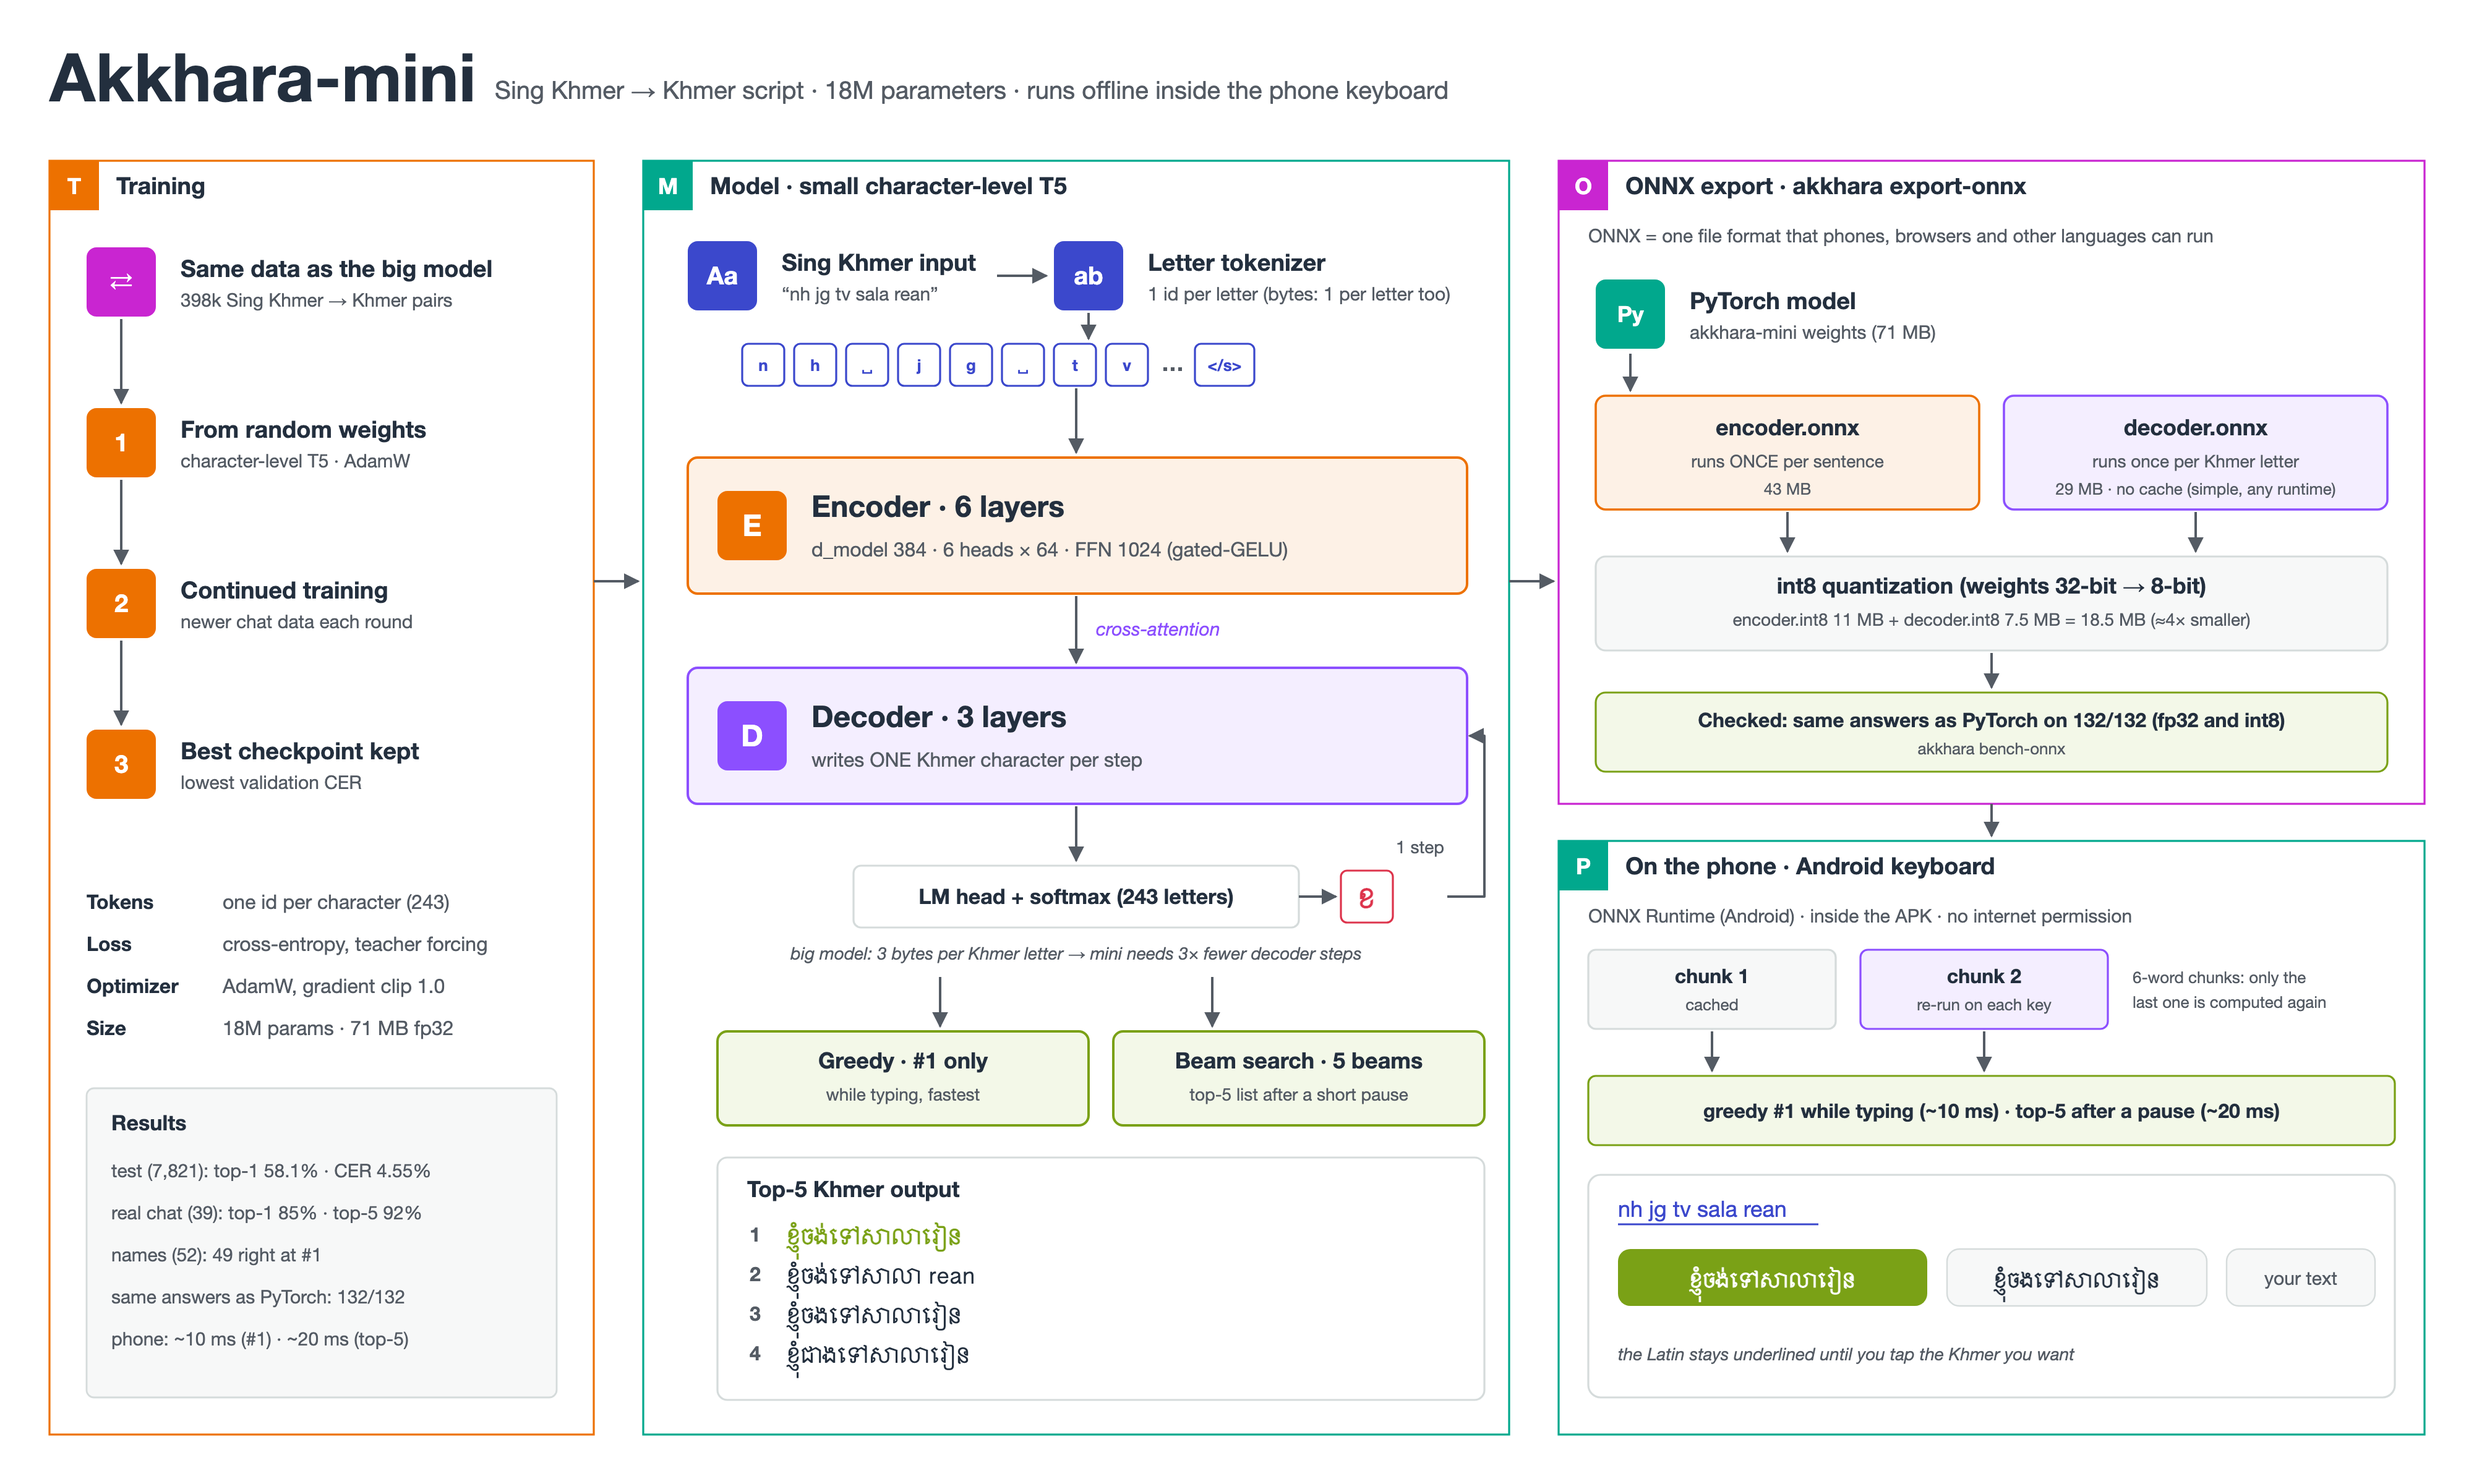
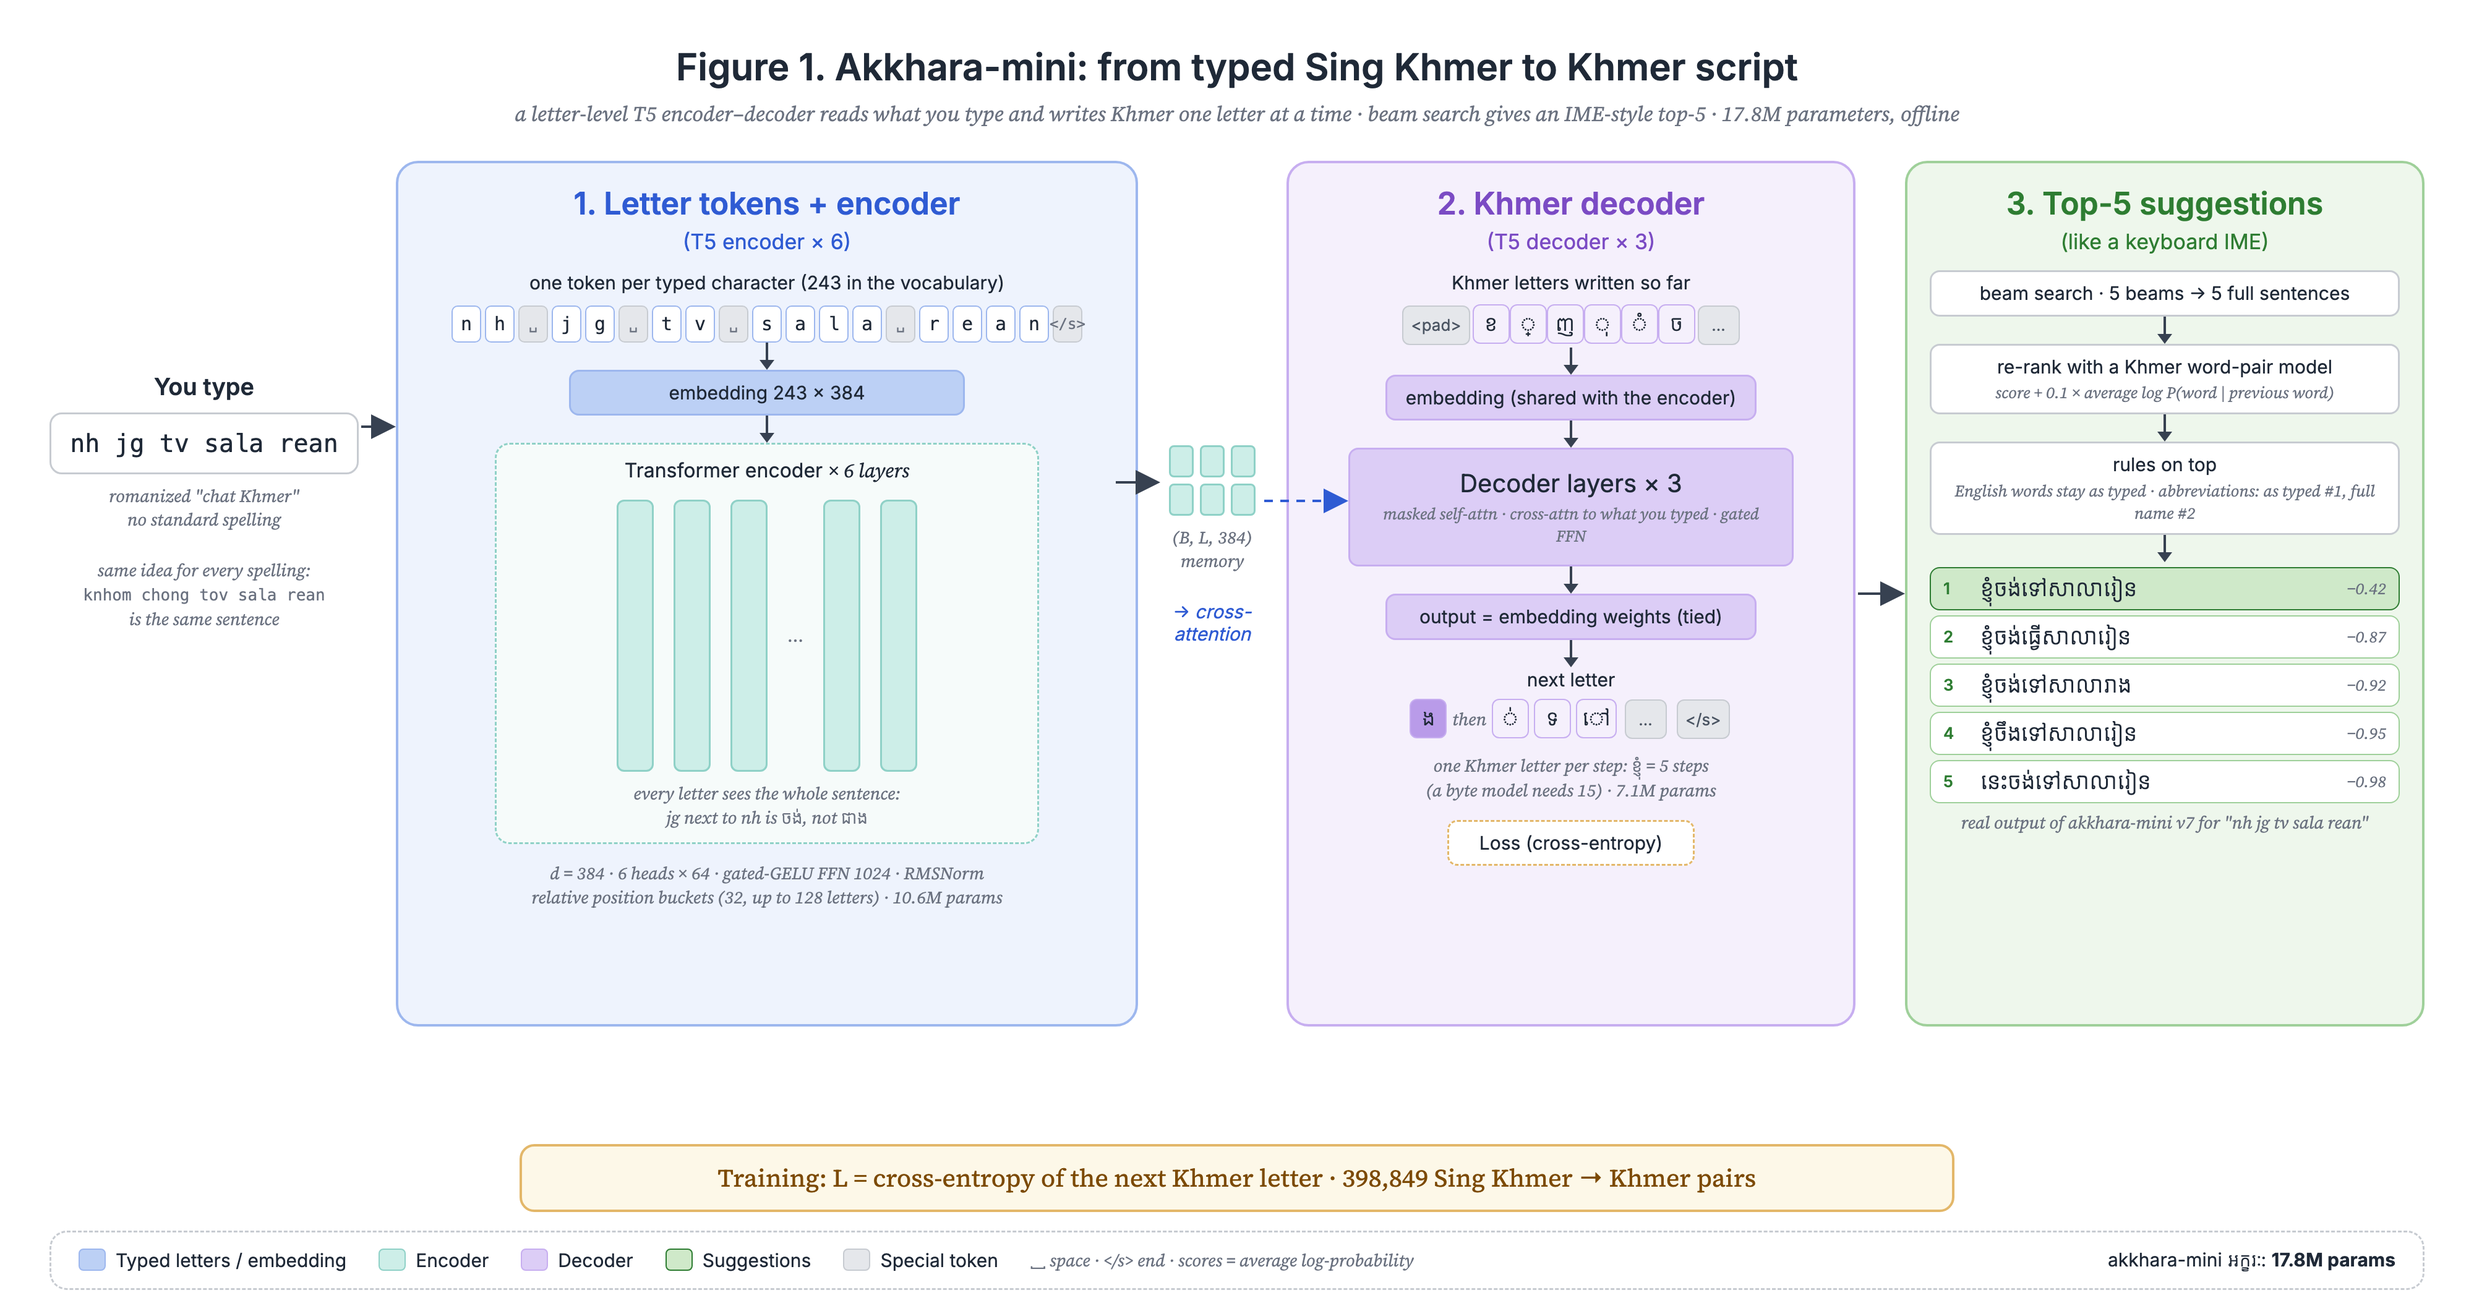
Detailed model figures (architecture, blocks, training + typing); sister projects: Chakkhu, VoxPocket, Sota

diff --git a/index.html b/index.html
@@ -435,7 +435,7 @@ footer .wrap{display:flex;flex-wrap:wrap;gap:16px;justify-content:space-between}
     <div class="eyebrow">Docs</div>
     <h2>How the model works</h2>
     <p class="sub">Akkhara is a small AI model that translates <b>Sing Khmer</b> (Khmer written with Latin letters, as in chat) into <b>Khmer script</b>, one whole sentence at a time.</p>
-    <a class="zoom" href="assets/architecture.png" data-alt="akkhara-mini: training, the character-level T5 model, ONNX export and the phone keyboard"><img class="figure" src="assets/architecture.png" alt="akkhara-mini: training, the character-level T5 model, ONNX export and the phone keyboard" loading="lazy"></a>
+    <a class="zoom" href="assets/architecture.png" data-alt="Figure 1: akkhara-mini, from typed Sing Khmer to Khmer script"><img class="figure" src="assets/architecture.png" alt="Figure 1. akkhara-mini: letter tokens, T5 encoder with 6 layers, decoder with 3 layers writing one Khmer letter per step, beam search and top-5 suggestions" loading="lazy"></a>
     <div class="grid g3" style="margin-top:22px">
       <div class="card"><h3>1 · The data</h3><p>398,000 pairs of Sing Khmer → Khmer. Khmer sentences from Wikipedia and the web, romanized the many ways people really type (<code>knhom</code> / <code>knh</code> / <code>nh</code>), plus real chat checked by native speakers, 846 topic spellings, 134 Cambodian ministry, bank and university names, and common English chat words kept as English.</p></div>
       <div class="card"><h3>2 · The model</h3><p><b>akkhara-mini</b>: a character-level T5 encoder–decoder with 18 million parameters (6 + 3 layers). The encoder reads every Latin letter of the sentence; the decoder writes the Khmer one letter at a time and a beam search keeps the 5 best sentences.</p></div>
@@ -444,6 +444,8 @@ footer .wrap{display:flex;flex-wrap:wrap;gap:16px;justify-content:space-between}
       <div class="card"><h3>Abbreviations</h3><p><code>mptc</code>, <code>rupp</code>, <code>cadt</code>, <code>istad</code>, <code>aba</code> stay as typed at #1, and the full Khmer name is offered at #2: <span class="km">ក្រសួងប្រៃសណីយ៍និងទូរគមនាគមន៍</span>.</p></div>
       <div class="card"><h3>A bigger model too</h3><p><b>akkhara-byt5-small</b> (300M parameters) is the most accurate on formal text (CER 3.7%). It runs in the <a href="https://huggingface.co/spaces/INGMUYLEANG/akkhara-demo" target="_blank" rel="noopener">web demo</a>; the phone and PC use the small one.</p></div>
     </div>
+    <a class="zoom" href="assets/blocks.png" data-alt="Figure 2: inside akkhara-mini and its big brother"><img class="figure" style="margin-top:22px" src="assets/blocks.png" alt="Figure 2. Inside akkhara-mini: encoder block, decoder block, and akkhara-mini compared with akkhara-byt5-small" loading="lazy"></a>
+    <a class="zoom" href="assets/training-typing.png" data-alt="Figure 3: how Akkhara learns and runs while you type"><img class="figure" style="margin-top:22px" src="assets/training-typing.png" alt="Figure 3. Making 398,849 training pairs with the romanizer, live typing with chunks, cache, re-ranking and rules, and the offline keyboards" loading="lazy"></a>
   </div>
 </section>
 
@@ -506,11 +508,24 @@ footer .wrap{display:flex;flex-wrap:wrap;gap:16px;justify-content:space-between}
       <a class="card" href="https://github.com/MuyleangIng/akkhara-desktop" target="_blank" rel="noopener"><div class="icon"><svg class="ic" aria-hidden="true"><use href="#i-monitor"/></svg></div><h3>Windows &amp; Mac</h3><p>Windows keyboard (TSF, C++), Mac keyboard (InputMethodKit, Swift) and the desktop app.</p></a>
       <a class="card" href="https://huggingface.co/datasets/INGMUYLEANG/akkhara-sing-khmer" target="_blank" rel="noopener"><div class="icon"><svg class="ic" aria-hidden="true"><use href="#i-database"/></svg></div><h3>Dataset</h3><p>380k Sing Khmer → Khmer pairs (access on request).</p></a>
     </div>
-    <a class="card sister" href="https://muyleanging.github.io/chakkhu-web/" target="_blank" rel="noopener">
+    <div class="eyebrow" style="margin-top:30px">Sister projects</div>
+    <div class="grid g3" style="margin-top:6px">
+    <a class="card sister" style="margin-top:0" href="https://muyleanging.github.io/chakkhu-web/" target="_blank" rel="noopener">
       <img src="assets/chakkhu.png" alt="" width="52" height="52">
-      <div><span class="status st-ok">Released</span><h3>Chakkhu <span class="km">ចក្ខុ</span>: Khmer OCR</h3>
-      <p>The sister project: Akkhara types the letters, Chakkhu reads them from photos, scans, old documents and screenshots. 4.5% errors on the KHOB benchmark; free demo and API.</p></div>
+      <div><span class="status st-ok">Released</span><h3>Chakkhu <span class="km">ចក្ខុ</span></h3>
+      <p>Khmer OCR: reads Khmer and English from photos, scans, old documents and screenshots. Free demo and API.</p></div>
     </a>
+    <a class="card sister" style="margin-top:0" href="https://muyleanging.github.io/voxpocket-web/" target="_blank" rel="noopener">
+      <span style="width:52px;height:52px;border-radius:12px;flex:none;display:flex;align-items:center;justify-content:center;background:linear-gradient(135deg,#7c3aed,#ec4899)"><svg width="28" height="28" viewBox="0 0 24 24" fill="none" stroke="#fff" stroke-width="2" stroke-linecap="round" stroke-linejoin="round" aria-hidden="true"><path d="M11 5 6 9H2v6h4l5 4V5z"/><path d="M15.5 8.5a5 5 0 0 1 0 7"/><path d="M19 5a10 10 0 0 1 0 14"/></svg></span>
+      <div><span class="status st-ok">Released</span><h3>VoxPocket</h3>
+      <p>Open Khmer text-to-speech: clone a voice, add a style, or design one.</p></div>
+    </a>
+    <a class="card sister" style="margin-top:0" href="https://muyleanging.github.io/sota-web/" target="_blank" rel="noopener">
+      <img src="assets/sota.png" alt="" width="52" height="52">
+      <div><span class="status st-soon">In development</span><h3>Sota <span class="km">សោតៈ</span></h3>
+      <p>Khmer + English speech recognition: turns speech into text.</p></div>
+    </a>
+    </div>
   </div>
 </section>
 
